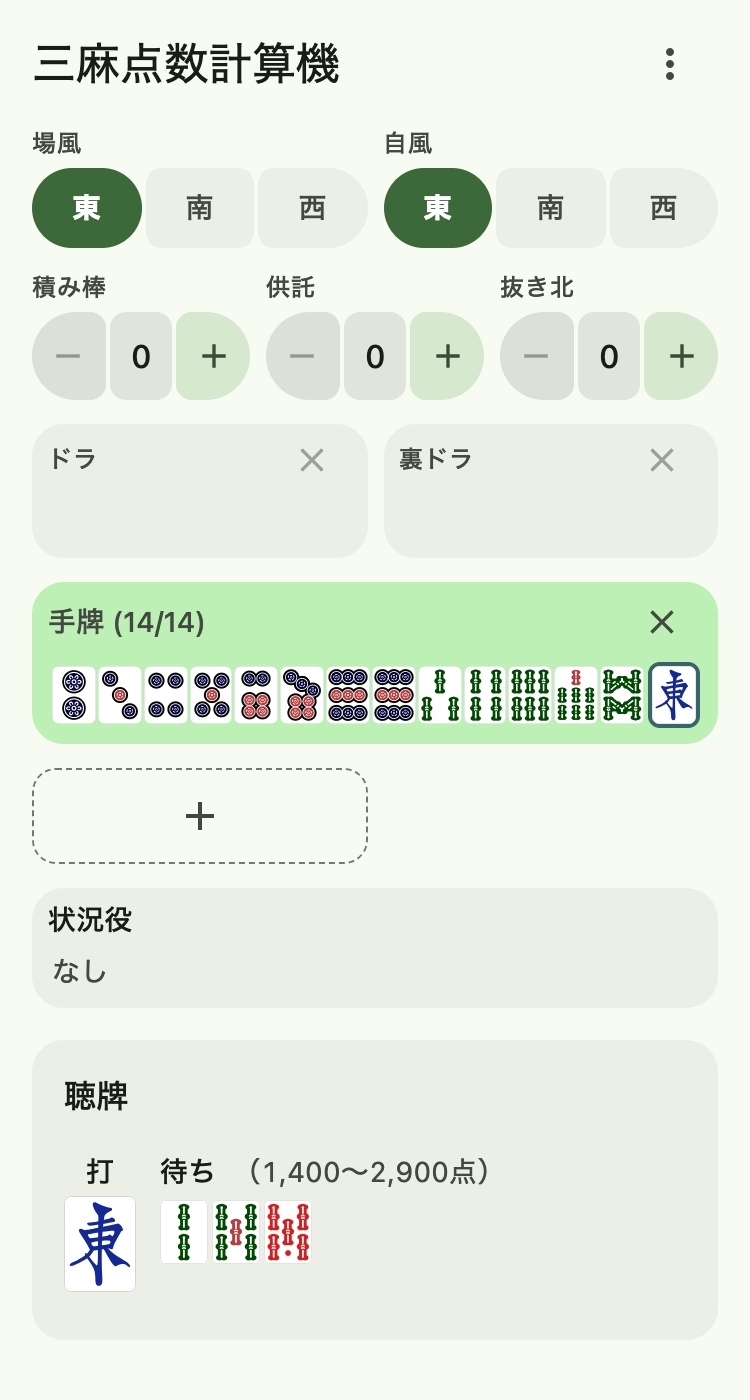
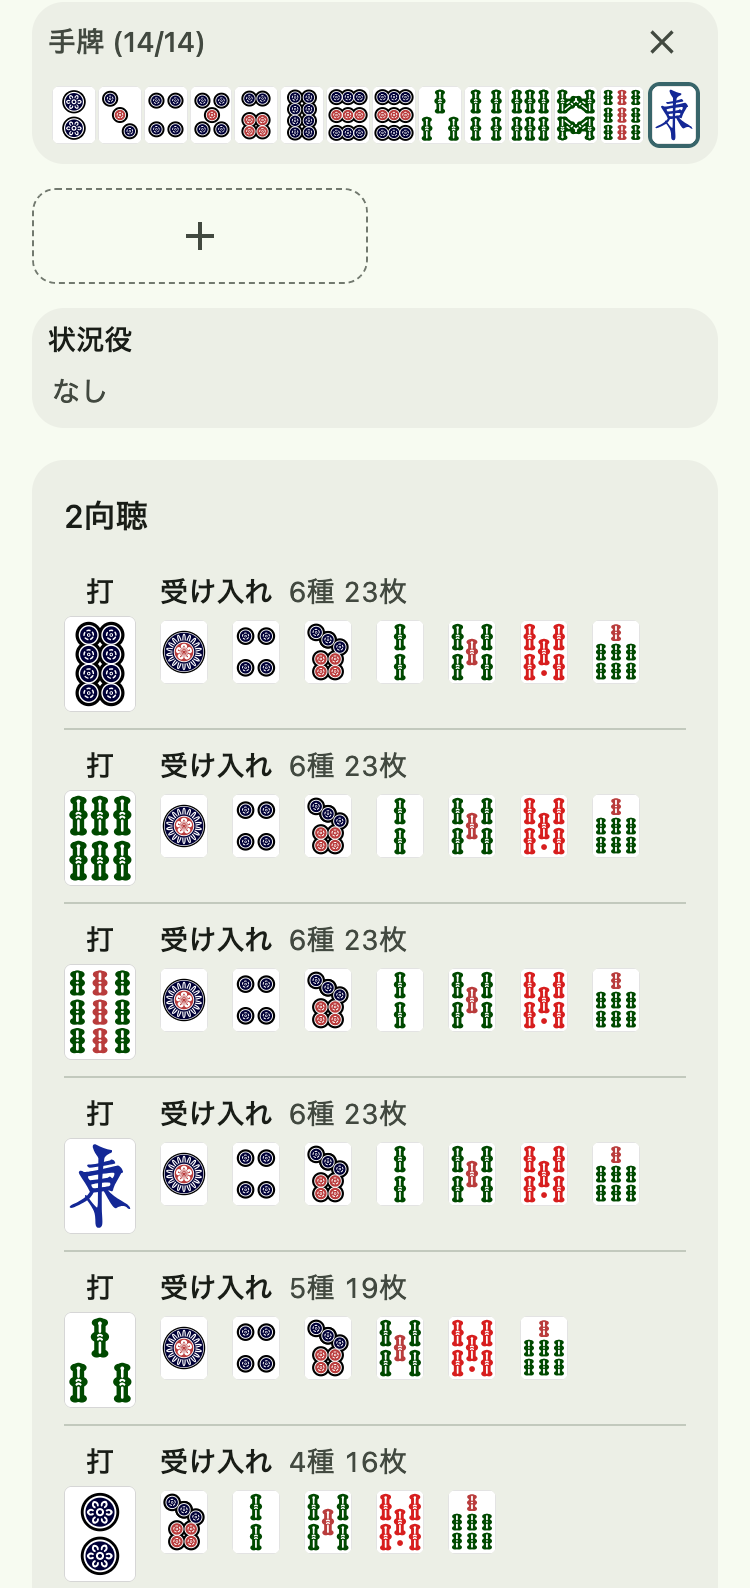
docs: READMEの何切るスクリーンショットを2向聴の何切る画面に差し替え
聴牌カードが写っていたため、聴牌していない14枚の手牌で打牌候補ごとの受け入れが並ぶ画面に撮り直し、altを実際の内容に合わせた。

diff --git a/README.md b/README.md
@@ -8,7 +8,7 @@ https://bluekurage119.github.io/mj-3player-calc/
 
 ## スクリーンショット
 
-<img src="docs/images/screenshot-hora.png" width="300" alt="和了形の役と点数の計算結果画面"> <img src="docs/images/screenshot-nanikiru.png" width="300" alt="何切るの向聴数と受け入れ一覧の計算結果画面">
+<img src="docs/images/screenshot-hora.png" width="300" alt="和了形の役と点数の計算結果画面"> <img src="docs/images/screenshot-nanikiru.png" width="300" alt="2向聴の14枚の手牌で、打牌候補ごとの受け入れ牌と枚数を並べた何切る画面">
 
 画像はイメージです。
 
